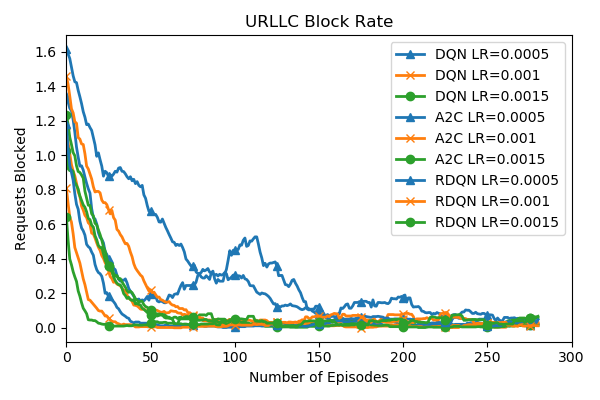
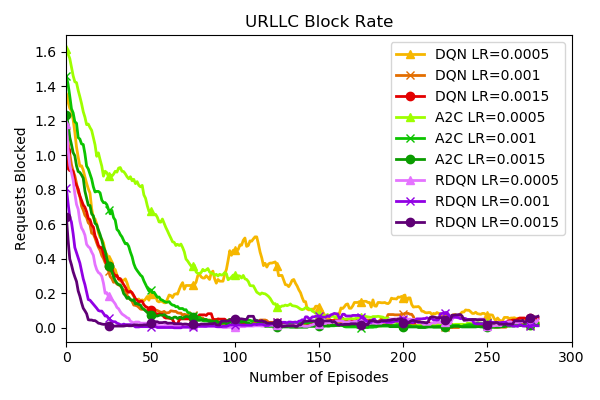
Stable ver. (15Jun)

diff --git a/Compare.py b/Compare.py
@@ -304,8 +304,12 @@ for gamma in RDQN_GAMMAS:
 
 LR_VALUES = [0.0005, 0.001, 0.0015]
 LR_LABELS = {0.0005: "LR=0.0005", 0.001: "LR=0.001", 0.0015: "LR=0.0015"}
-LR_COLORS = {0.0005: "#1f77b4", 0.001: "#ff7f0e", 0.0015: "#2ca02c"}
-LR_MARKERS = {0.0005: "^", 0.001: "x", 0.0015: "o"}
+DQN_LR_COLORS = {0.0005: "#f6b700", 0.001: "#e36e00", 0.0015: "#e30000"}
+A2C_LR_COLORS = {0.0005: "#9eff00", 0.001: "#0cc400", 0.0015: "#0a9c00"}
+RDQN_LR_COLORS = {0.0005: "#e573ff", 0.001: "#9100e4", 0.0015: "#5f0075"}
+DQN_LR_MARKERS = {0.0005: "^", 0.001: "x", 0.0015: "o"}
+A2C_LR_MARKERS = {0.0005: "^", 0.001: "x", 0.0015: "o"}
+RDQN_LR_MARKERS = {0.0005: "^", 0.001: "x", 0.0015: "o"}
 
 dqn_lr_results = {}
 a2c_lr_results = {}
@@ -422,25 +426,25 @@ def plot_results():
         for lr in LR_VALUES:
             if lr in dqn_lr_results:
                 mean, std = adjust_std_and_smooth(dqn_lr_results[lr]["urllc_blocks_mean"], dqn_lr_results[lr]["urllc_blocks_std"])
-                plt.plot(mean, label=f"DQN {LR_LABELS[lr]}", color=LR_COLORS[lr], linewidth=2, marker=LR_MARKERS[lr], markevery=25)
+                plt.plot(mean, label=f"DQN {LR_LABELS[lr]}", color=DQN_LR_COLORS[lr], linewidth=2, marker=DQN_LR_MARKERS[lr], markevery=25)
                 if SHOW_STD_DEV:
-                    plt.fill_between(range(len(mean)), mean - std, mean + std, color=LR_COLORS[lr], alpha=0.1)
+                    plt.fill_between(range(len(mean)), mean - std, mean + std, color=DQN_LR_COLORS[lr], alpha=0.1)
     # Overlay A2C LR curves
     if PLOT_A2C_LRS:
         for lr in LR_VALUES:
             if lr in a2c_lr_results:
                 mean, std = adjust_std_and_smooth(a2c_lr_results[lr]["urllc_blocks_mean"], a2c_lr_results[lr]["urllc_blocks_std"])
-                plt.plot(mean, label=f"A2C {LR_LABELS[lr]}", color=LR_COLORS[lr], linewidth=2, marker=LR_MARKERS[lr], markevery=25)
+                plt.plot(mean, label=f"A2C {LR_LABELS[lr]}", color=A2C_LR_COLORS[lr], linewidth=2, marker=A2C_LR_MARKERS[lr], markevery=25)
                 if SHOW_STD_DEV:
-                    plt.fill_between(range(len(mean)), mean - std, mean + std, color=LR_COLORS[lr], alpha=0.1)
+                    plt.fill_between(range(len(mean)), mean - std, mean + std, color=A2C_LR_COLORS[lr], alpha=0.1)
     # Overlay RDQN LR curves
     if PLOT_RDQN_LRS:
         for lr in LR_VALUES:
             if lr in rdqn_lr_results:
                 mean, std = adjust_std_and_smooth(rdqn_lr_results[lr]["urllc_blocks_mean"], rdqn_lr_results[lr]["urllc_blocks_std"])
-                plt.plot(mean, label=f"RDQN {LR_LABELS[lr]}", color=LR_COLORS[lr], linewidth=2, marker=LR_MARKERS[lr], markevery=25)
+                plt.plot(mean, label=f"RDQN {LR_LABELS[lr]}", color=RDQN_LR_COLORS[lr], linewidth=2, marker=RDQN_LR_MARKERS[lr], markevery=25)
                 if SHOW_STD_DEV:
-                    plt.fill_between(range(len(mean)), mean - std, mean + std, color=LR_COLORS[lr], alpha=0.1)
+                    plt.fill_between(range(len(mean)), mean - std, mean + std, color=RDQN_LR_COLORS[lr], alpha=0.1)
     if PLOT_DQN:
         dqn_mean, dqn_std = adjust_std_and_smooth(mean_dqn_urllc_blocks, std_dqn_urllc_blocks)
         plt.plot(dqn_mean, label='DQN + SAC', color='#d95f02', linewidth=2)
@@ -479,23 +483,23 @@ def plot_results():
         for lr in LR_VALUES:
             if lr in dqn_lr_results:
                 mean, std = adjust_std_and_smooth(dqn_lr_results[lr]["urllc_sla_mean"], dqn_lr_results[lr]["urllc_sla_std"])
-                plt.plot(mean, label=f"DQN {LR_LABELS[lr]}", color=LR_COLORS[lr], linewidth=2, marker=LR_MARKERS[lr], markevery=25)
+                plt.plot(mean, label=f"DQN {LR_LABELS[lr]}", color=DQN_LR_COLORS[lr], linewidth=2, marker=DQN_LR_MARKERS[lr], markevery=25)
                 if SHOW_STD_DEV:
-                    plt.fill_between(range(len(mean)), mean - std, mean + std, color=LR_COLORS[lr], alpha=0.1)
+                    plt.fill_between(range(len(mean)), mean - std, mean + std, color=DQN_LR_COLORS[lr], alpha=0.1)
     if PLOT_A2C_LRS:
         for lr in LR_VALUES:
             if lr in a2c_lr_results:
                 mean, std = adjust_std_and_smooth(a2c_lr_results[lr]["urllc_sla_mean"], a2c_lr_results[lr]["urllc_sla_std"])
-                plt.plot(mean, label=f"A2C {LR_LABELS[lr]}", color=LR_COLORS[lr], linewidth=2, marker=LR_MARKERS[lr], markevery=25)
+                plt.plot(mean, label=f"A2C {LR_LABELS[lr]}", color=A2C_LR_COLORS[lr], linewidth=2, marker=A2C_LR_MARKERS[lr], markevery=25)
                 if SHOW_STD_DEV:
-                    plt.fill_between(range(len(mean)), mean - std, mean + std, color=LR_COLORS[lr], alpha=0.1)
+                    plt.fill_between(range(len(mean)), mean - std, mean + std, color=A2C_LR_COLORS[lr], alpha=0.1)
     if PLOT_RDQN_LRS:
         for lr in LR_VALUES:
             if lr in rdqn_lr_results:
                 mean, std = adjust_std_and_smooth(rdqn_lr_results[lr]["urllc_sla_mean"], rdqn_lr_results[lr]["urllc_sla_std"])
-                plt.plot(mean, label=f"RDQN {LR_LABELS[lr]}", color=LR_COLORS[lr], linewidth=2, marker=LR_MARKERS[lr], markevery=25)
+                plt.plot(mean, label=f"RDQN {LR_LABELS[lr]}", color=RDQN_LR_COLORS[lr], linewidth=2, marker=RDQN_LR_MARKERS[lr], markevery=25)
                 if SHOW_STD_DEV:
-                    plt.fill_between(range(len(mean)), mean - std, mean + std, color=LR_COLORS[lr], alpha=0.1)
+                    plt.fill_between(range(len(mean)), mean - std, mean + std, color=RDQN_LR_COLORS[lr], alpha=0.1)
     if PLOT_DQN:
         dqn_mean, dqn_std = adjust_std_and_smooth(mean_dqn_urllc_sla, std_dqn_urllc_sla)
         plt.plot(dqn_mean, label='DQN + SAC', color='#d95f02', linewidth=2)
@@ -534,23 +538,23 @@ def plot_results():
         for lr in LR_VALUES:
             if lr in dqn_lr_results:
                 mean, std = adjust_std_and_smooth(dqn_lr_results[lr]["embb_blocks_mean"], dqn_lr_results[lr]["embb_blocks_std"])
-                plt.plot(mean, label=f"DQN {LR_LABELS[lr]}", color=LR_COLORS[lr], linewidth=2, marker=LR_MARKERS[lr], markevery=25)
+                plt.plot(mean, label=f"DQN {LR_LABELS[lr]}", color=DQN_LR_COLORS[lr], linewidth=2, marker=DQN_LR_MARKERS[lr], markevery=25)
                 if SHOW_STD_DEV:
-                    plt.fill_between(range(len(mean)), mean - std, mean + std, color=LR_COLORS[lr], alpha=0.1)
+                    plt.fill_between(range(len(mean)), mean - std, mean + std, color=DQN_LR_COLORS[lr], alpha=0.1)
     if PLOT_A2C_LRS:
         for lr in LR_VALUES:
             if lr in a2c_lr_results:
                 mean, std = adjust_std_and_smooth(a2c_lr_results[lr]["embb_blocks_mean"], a2c_lr_results[lr]["embb_blocks_std"])
-                plt.plot(mean, label=f"A2C {LR_LABELS[lr]}", color=LR_COLORS[lr], linewidth=2, marker=LR_MARKERS[lr], markevery=25)
+                plt.plot(mean, label=f"A2C {LR_LABELS[lr]}", color=A2C_LR_COLORS[lr], linewidth=2, marker=A2C_LR_MARKERS[lr], markevery=25)
                 if SHOW_STD_DEV:
-                    plt.fill_between(range(len(mean)), mean - std, mean + std, color=LR_COLORS[lr], alpha=0.1)
+                    plt.fill_between(range(len(mean)), mean - std, mean + std, color=A2C_LR_COLORS[lr], alpha=0.1)
     if PLOT_RDQN_LRS:
         for lr in LR_VALUES:
             if lr in rdqn_lr_results:
                 mean, std = adjust_std_and_smooth(rdqn_lr_results[lr]["embb_blocks_mean"], rdqn_lr_results[lr]["embb_blocks_std"])
-                plt.plot(mean, label=f"RDQN {LR_LABELS[lr]}", color=LR_COLORS[lr], linewidth=2, marker=LR_MARKERS[lr], markevery=25)
+                plt.plot(mean, label=f"RDQN {LR_LABELS[lr]}", color=RDQN_LR_COLORS[lr], linewidth=2, marker=RDQN_LR_MARKERS[lr], markevery=25)
                 if SHOW_STD_DEV:
-                    plt.fill_between(range(len(mean)), mean - std, mean + std, color=LR_COLORS[lr], alpha=0.1)
+                    plt.fill_between(range(len(mean)), mean - std, mean + std, color=RDQN_LR_COLORS[lr], alpha=0.1)
     if PLOT_DQN:
         dqn_mean, dqn_std = adjust_std_and_smooth(mean_dqn_embb_blocks, std_dqn_embb_blocks)
         plt.plot(dqn_mean, label='DQN + SAC', color='#d95f02', linewidth=2)
@@ -589,23 +593,23 @@ def plot_results():
         for lr in LR_VALUES:
             if lr in dqn_lr_results:
                 mean, std = adjust_std_and_smooth(dqn_lr_results[lr]["embb_sla_mean"], dqn_lr_results[lr]["embb_sla_std"])
-                plt.plot(mean, label=f"DQN {LR_LABELS[lr]}", color=LR_COLORS[lr], linewidth=2, marker=LR_MARKERS[lr], markevery=25)
+                plt.plot(mean, label=f"DQN {LR_LABELS[lr]}", color=DQN_LR_COLORS[lr], linewidth=2, marker=DQN_LR_MARKERS[lr], markevery=25)
                 if SHOW_STD_DEV:
-                    plt.fill_between(range(len(mean)), mean - std, mean + std, color=LR_COLORS[lr], alpha=0.1)
+                    plt.fill_between(range(len(mean)), mean - std, mean + std, color=DQN_LR_COLORS[lr], alpha=0.1)
     if PLOT_A2C_LRS:
         for lr in LR_VALUES:
             if lr in a2c_lr_results:
                 mean, std = adjust_std_and_smooth(a2c_lr_results[lr]["embb_sla_mean"], a2c_lr_results[lr]["embb_sla_std"])
-                plt.plot(mean, label=f"A2C {LR_LABELS[lr]}", color=LR_COLORS[lr], linewidth=2, marker=LR_MARKERS[lr], markevery=25)
+                plt.plot(mean, label=f"A2C {LR_LABELS[lr]}", color=A2C_LR_COLORS[lr], linewidth=2, marker=A2C_LR_MARKERS[lr], markevery=25)
                 if SHOW_STD_DEV:
-                    plt.fill_between(range(len(mean)), mean - std, mean + std, color=LR_COLORS[lr], alpha=0.1)
+                    plt.fill_between(range(len(mean)), mean - std, mean + std, color=A2C_LR_COLORS[lr], alpha=0.1)
     if PLOT_RDQN_LRS:
         for lr in LR_VALUES:
             if lr in rdqn_lr_results:
                 mean, std = adjust_std_and_smooth(rdqn_lr_results[lr]["embb_sla_mean"], rdqn_lr_results[lr]["embb_sla_std"])
-                plt.plot(mean, label=f"RDQN {LR_LABELS[lr]}", color=LR_COLORS[lr], linewidth=2, marker=LR_MARKERS[lr], markevery=25)
+                plt.plot(mean, label=f"RDQN {LR_LABELS[lr]}", color=RDQN_LR_COLORS[lr], linewidth=2, marker=RDQN_LR_MARKERS[lr], markevery=25)
                 if SHOW_STD_DEV:
-                    plt.fill_between(range(len(mean)), mean - std, mean + std, color=LR_COLORS[lr], alpha=0.1)
+                    plt.fill_between(range(len(mean)), mean - std, mean + std, color=RDQN_LR_COLORS[lr], alpha=0.1)
     if PLOT_DQN:
         dqn_mean, dqn_std = adjust_std_and_smooth(mean_dqn_embb_sla, std_dqn_embb_sla)
         plt.plot(dqn_mean, label='DQN + SAC', color='#d95f02', linewidth=2)
